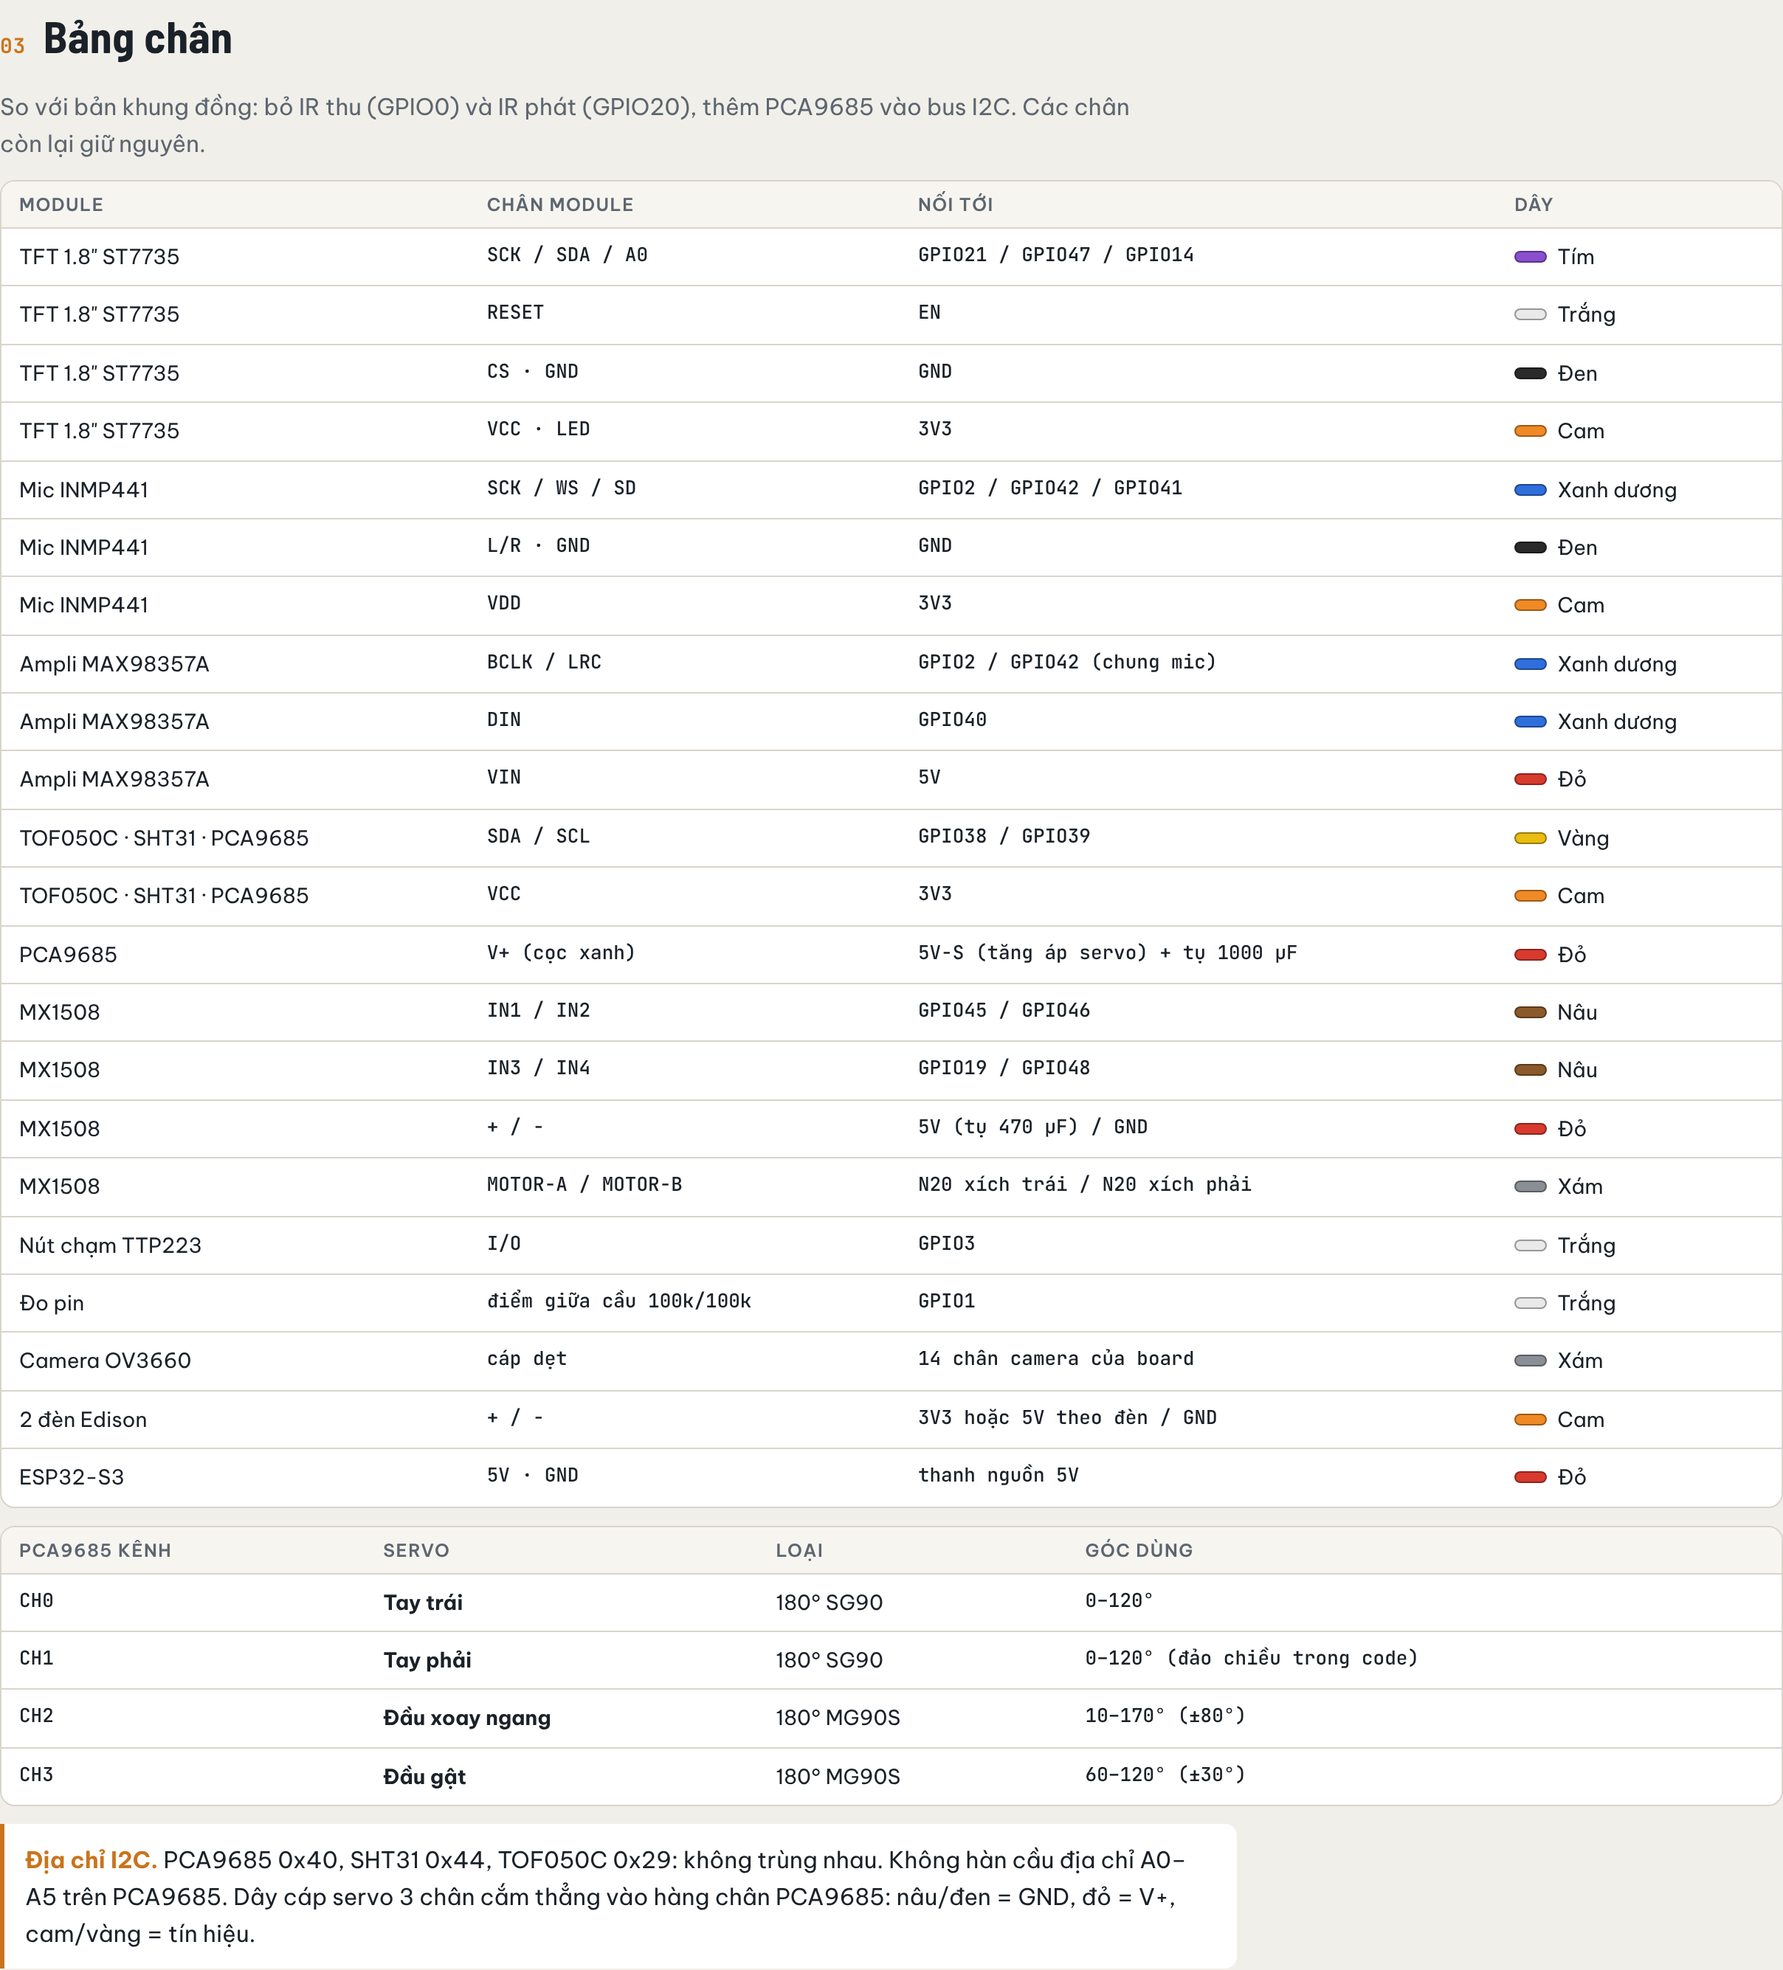
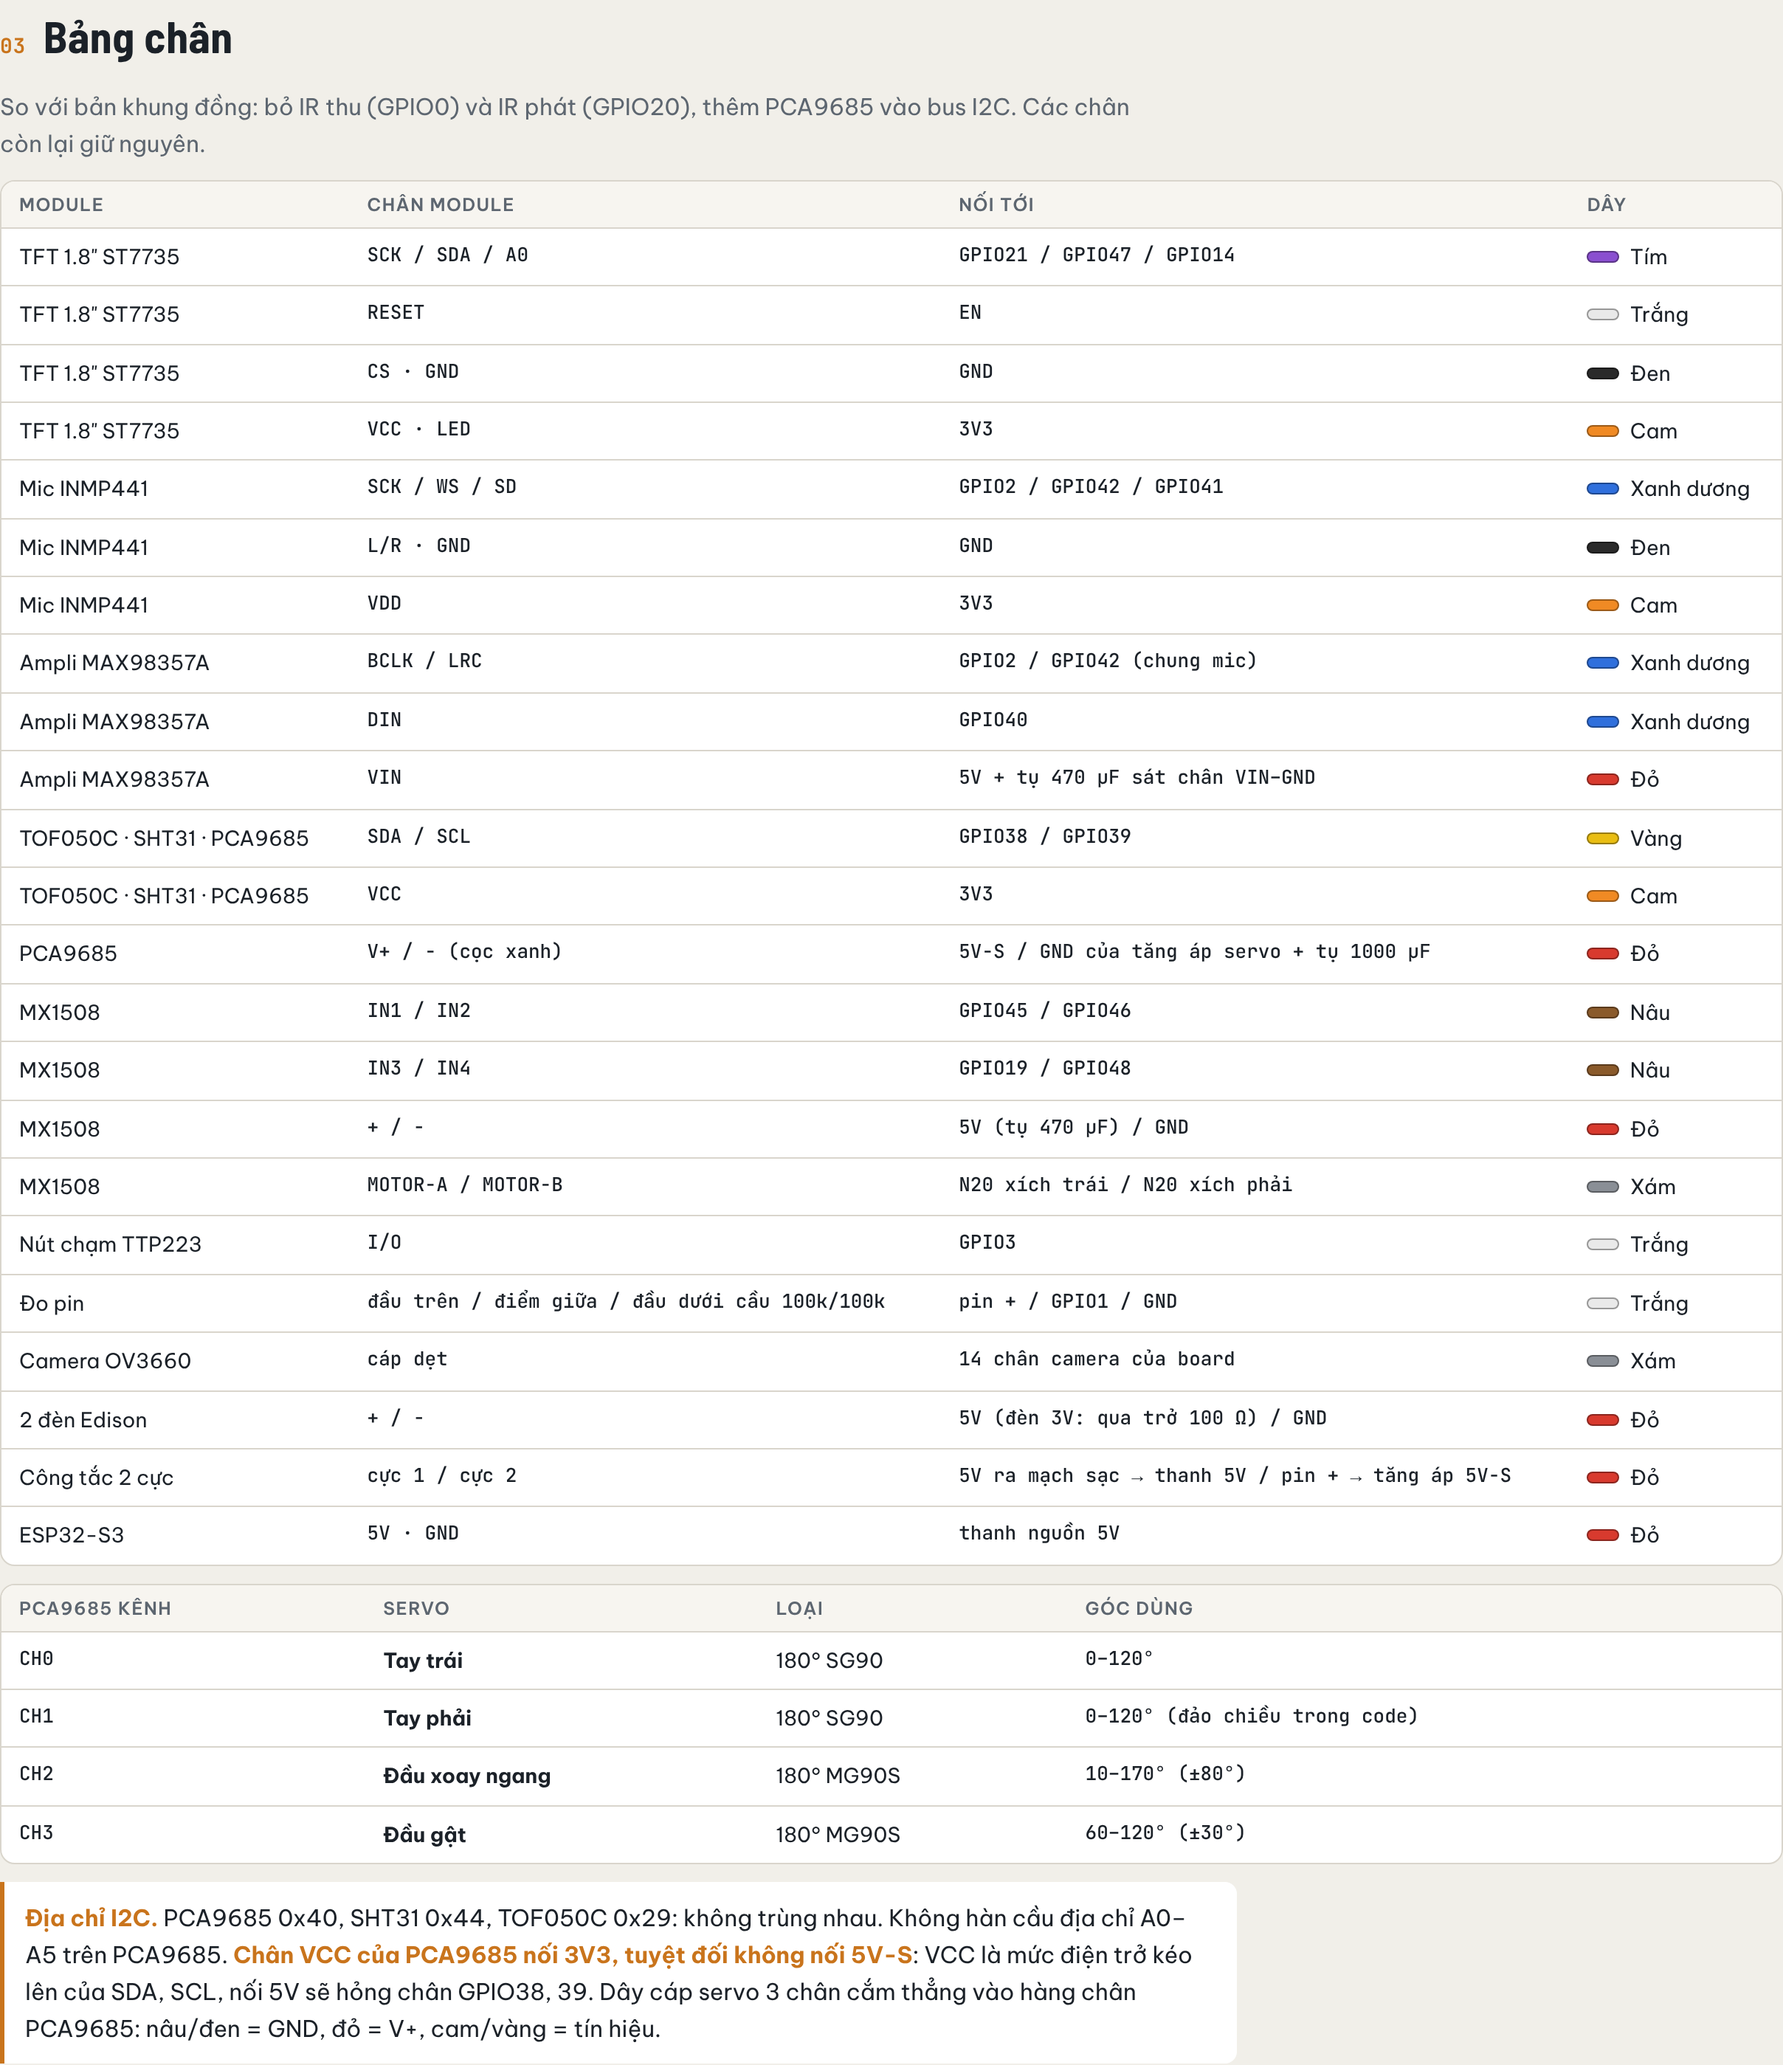
Soát sơ đồ Wall-E xích N20: thêm 2 đầu cầu chia đo pin, tụ ampli, cọc − PCA9685; công tắc và tăng áp đủ dòng; đèn Edison lấy 5V
Claude-Session: https://claude.ai/code/session_01LP61bmVpytbB66juJGd8Vg

diff --git a/design/walle-xich-n20/so-do-mach.html b/design/walle-xich-n20/so-do-mach.html
@@ -72,7 +72,9 @@ ol.steps b{font-family:var(--f-display);font-size:17px}
   <h2><span class="n">02</span>Nguồn</h2>
   <p class="lead">Giữ mạch sạc combo như cũ cho ESP32, ampli, MX1508. 4 servo lúc khởi động kéo tới 2–3 A, nên có mạch tăng áp 5V riêng lấy thẳng từ pin. Công tắc 2 cực tắt cả 2 nhánh cùng lúc.</p>
   <div class="fig"><svg id="figPower" viewBox="0 0 1180 360" width="1180" height="360" role="img" aria-label="Sơ đồ nguồn"></svg></div>
-  <div class="note warn"><b>Nhớ.</b> Chỉnh biến trở mạch tăng áp servo ra 5,1–5,3 V trước khi cắm servo. GND của mạch tăng áp nối chung GND của ESP32, không thì servo giật lung tung. Tụ 1000 µF sát cọc V+ của PCA9685, tụ 470 µF sát chân + của MX1508 (như bản cũ).</div>
+  <div class="note warn"><b>Nhớ.</b> Chỉnh biến trở mạch tăng áp servo ra 5,1–5,3 V trước khi cắm servo. GND của mạch tăng áp nối chung GND của ESP32, không thì servo giật lung tung. Tụ 1000 µF sát cọc V+ của PCA9685. 2 tụ 470 µF như bản cũ: 1 sát chân + − của MX1508, 1 sát chân VIN GND của ampli.</div>
+  <div class="note warn"><b>Nhánh servo chạy dòng lớn.</b> Lúc 4 servo cùng chạy, dây từ pin vào mạch tăng áp chịu tới 4–5 A. Công tắc phải là loại gạt 6 chân chịu từ 5 A trở lên, không dùng công tắc trượt nhỏ (chỉ chịu 0,5 A). Dây pin → công tắc → tăng áp → PCA9685 dùng 20AWG. Mạch tăng áp phải ghi rõ ra được 3 A khi ngõ vào là 1 cell 3,7 V. Mạch XL6009, MT3608 không đủ.</div>
+  <div class="note"><b>Đèn Edison lấy 5V, không lấy 3V3 của board.</b> Mạch ổn áp 3V3 trên board đã gánh ESP32, camera, WiFi, màn và các cảm biến. Đèn ghi 3V thì nối 5V qua 1 trở 100 Ω cho mỗi đèn. Đèn ghi 5V thì nối thẳng.</div>
 </section>
 
 <section id="chan">
@@ -86,7 +88,7 @@ ol.steps b{font-family:var(--f-display);font-size:17px}
     <thead><tr><th>PCA9685 kênh</th><th>Servo</th><th>Loại</th><th>Góc dùng</th></tr></thead>
     <tbody id="servoRows"></tbody>
   </table></div>
-  <div class="note"><b>Địa chỉ I2C.</b> PCA9685 0x40, SHT31 0x44, TOF050C 0x29: không trùng nhau. Không hàn cầu địa chỉ A0–A5 trên PCA9685. Dây cáp servo 3 chân cắm thẳng vào hàng chân PCA9685: nâu/đen = GND, đỏ = V+, cam/vàng = tín hiệu.</div>
+  <div class="note"><b>Địa chỉ I2C.</b> PCA9685 0x40, SHT31 0x44, TOF050C 0x29: không trùng nhau. Không hàn cầu địa chỉ A0–A5 trên PCA9685. <b>Chân VCC của PCA9685 nối 3V3, tuyệt đối không nối 5V-S</b>: VCC là mức điện trở kéo lên của SDA, SCL, nối 5V sẽ hỏng chân GPIO38, 39. Dây cáp servo 3 chân cắm thẳng vào hàng chân PCA9685: nâu/đen = GND, đỏ = V+, cam/vàng = tín hiệu.</div>
 </section>
 </div>
 
@@ -108,13 +110,13 @@ const MODS=[
  {side:'L',t:'TFT 1.8" ST7735 (ngực)',c:'#b8262b',pins:[['LED','3V3'],['SCK','J3:21','purple'],['SDA','J3:47','purple'],['A0','J1:14','purple'],['RESET','J1:RST','white'],['CS','GND'],['GND','GND'],['VCC','3V3']]},
  {side:'L',t:'Nút chạm TTP223 (nắp trên)',c:'#c42a2e',pins:[['I/O','J1:3','white'],['VCC','3V3'],['GND','GND']]},
  {side:'L',t:'Camera OV3660 (mắt trái)',c:'#141518',pins:[['FPC','khe camera trên board']]},
- {side:'L',t:'PCA9685 · ngõ ra servo (sàn)',c:'#0f6b5e',pins:[['V+','5V-S'],['GND','GND'],['CH0','tay trái · SG90'],['CH1','tay phải · SG90'],['CH2','đầu xoay · MG90S'],['CH3','đầu gật · MG90S']]},
- {side:'L',t:'2 đèn Edison (lưng)',c:'#7a5a1e',pins:[['+','3V3 hoặc 5V theo đèn'],['−','GND']]},
+ {side:'L',t:'PCA9685 · ngõ ra servo (sàn)',c:'#0f6b5e',pins:[['V+ (cọc xanh)','5V-S'],['− (cọc xanh)','GND'],['CH0','tay trái · SG90'],['CH1','tay phải · SG90'],['CH2','đầu xoay · MG90S'],['CH3','đầu gật · MG90S']]},
+ {side:'L',t:'2 đèn Edison (lưng)',c:'#7a5a1e',pins:[['+','5V (qua trở nếu đèn 3V)'],['−','GND']]},
  {side:'R',t:'Mic INMP441 (nắp trên)',c:'#141518',pins:[['SCK','J3:2','blue'],['WS','J3:42','blue'],['SD','J3:41','blue'],['L/R','GND'],['VDD','3V3'],['GND','GND']]},
- {side:'R',t:'Ampli MAX98357A (sau ngực)',c:'#4b2a8a',pins:[['BCLK','J3:2','blue'],['LRC','J3:42','blue'],['DIN','J3:40','blue'],['VIN','5V'],['GND','GND']]},
- {side:'R',t:'I2C: TOF050C · SHT31 · PCA9685',c:'#1d3f8a',pins:[['SDA','J3:38','yellow'],['SCL','J3:39','green'],['VCC','3V3'],['GND','GND']]},
+ {side:'R',t:'Ampli MAX98357A (sau ngực)',c:'#4b2a8a',pins:[['BCLK','J3:2','blue'],['LRC','J3:42','blue'],['DIN','J3:40','blue'],['VIN (tụ 470µF)','5V'],['GND','GND']]},
+ {side:'R',t:'I2C: TOF050C · SHT31 · PCA9685',c:'#1d3f8a',pins:[['SDA','J3:38','yellow'],['SCL','J3:39','green'],['VCC (cả 3 module)','3V3'],['GND','GND']]},
  {side:'R',t:'MX1508 · 2 motor N20 (sàn dưới)',c:'#8a5a2b',pins:[['IN1','J3:45','brown'],['IN2','J1:46','brown'],['IN3','J3:19','brown'],['IN4','J3:48','brown'],['+ (tụ 470µF)','5V'],['−','GND'],['MOTOR-A','N20 xích trái'],['MOTOR-B','N20 xích phải']]},
- {side:'R',t:'Đo pin (cầu chia 100k/100k)',c:'#c8a066',pins:[['điểm giữa','J3:1','white']]},
+ {side:'R',t:'Đo pin (cầu chia 100k/100k)',c:'#c8a066',pins:[['đầu trên','pin +'],['điểm giữa','J3:1','white'],['đầu dưới','GND']]},
 ];
 (function(){
   const s=document.getElementById('figWire');
@@ -132,7 +134,7 @@ const MODS=[
   T(s,EX0-4,top-50,'J1',{fs:12,fw:700,mono:true,a:'middle'}); T(s,EX1+4,top-50,'J3',{fs:12,fw:700,mono:true,a:'middle'});
   T(s,(EX0+EX1)/2,top+espH+16,'chữ xanh nhạt = chân camera, không dùng',{fs:11,a:'middle',fill:'var(--muted)'});
   T(s,(EX0+EX1)/2,top+espH+33,'GPIO0, GPIO20 = trống (đã bỏ IR)',{fs:11,a:'middle',fill:'var(--muted)'});
-  const badge=(x,y,txt,right)=>{ const col={'3V3':'#f08a24','5V':'#d83a2e','5V-S':'#a3166b','GND':'#2a2a2a'}[txt]; const w=Math.max(38,txt.length*6.6+14);
+  const badge=(x,y,txt,right)=>{ const col={'3V3':'#f08a24','5V':'#d83a2e','5V-S':'#a3166b','GND':'#2a2a2a','pin +':'#6b4a1a'}[txt]; const w=Math.max(38,txt.length*6.6+14);
     const bx=right?x+10:x-10-w; R(s,bx,y-9,w,18,{fill:col||'var(--surface-2)',stroke:col||'var(--cardline)',rx:9,sw:1}); T(s,bx+w/2,y,txt,{fs:10.5,fw:700,a:'middle',mono:!!col,fill:col?'#fff':'var(--ink)'}); };
   const wires=[];
   let yL=top-50, yR=top-50;
@@ -164,22 +166,23 @@ const MODS=[
   const L=(x,y,t,o={})=>T(s,x,y,t,Object.assign({fs:10.5,fill:'var(--muted)'},o));
   B(20,135,150,70,'2 × 18650','song song · 3,7 V');
   B(230,40,170,70,'Mạch sạc combo','sạc USB-C · ra 5V');
-  B(230,230,170,70,'Công tắc 2 cực','DPDT 6 chân');
+  B(230,230,170,70,'Công tắc 2 cực','gạt DPDT 6 chân · ≥ 5 A');
   B(480,40,180,70,'Thanh nguồn 5V','sau công tắc');
-  B(480,230,180,70,'Tăng áp 5V-S','≥ 3 A · chỉnh 5,2 V','var(--accent-soft)');
-  B(740,10,190,50,'ESP32 (chân 5V)','3V3 → TFT, mic, I2C, chạm');
-  B(740,70,190,40,'Ampli MAX98357A','');
-  B(740,120,190,50,'MX1508 + tụ 470 µF','→ 2 motor N20');
+  B(480,230,180,70,'Tăng áp 5V-S','3 A khi vào 3,7 V','var(--accent-soft)');
+  B(740,4,190,46,'ESP32 (chân 5V)','3V3 → TFT, mic, I2C, chạm');
+  B(740,58,190,36,'Ampli + tụ 470 µF','');
+  B(740,102,190,46,'MX1508 + tụ 470 µF','→ 2 motor N20');
+  B(740,156,190,46,'2 đèn Edison','đèn 3V: thêm trở 100 Ω');
+  B(20,262,150,50,'Cầu chia 100k/100k','điểm giữa → GPIO1');
   B(740,230,190,70,'PCA9685 V+','+ tụ 1000 µF','var(--accent-soft)');
   B(1000,230,160,70,'4 servo','2 tay · đầu xoay · gật');
-  B(1000,10,160,50,'2 đèn Edison','hoặc 5V, theo đèn');
   A('M170 155 C200 155,200 75,228 75'); L(196,100,'B+ B−',{a:'end'});
-  A('M170 185 C200 185,200 280,228 280'); L(200,300,'pin + vào cực 2',{a:'end'});
+  A('M170 185 C200 185,200 280,228 280'); L(232,318,'pin + vào cực 2');
   A('M400 75 C440 75,440 175,320 175 C300 175,300 205,300 228'); L(384,194,'5V vào cực 1',{a:'middle'}); L(452,150,'cực 1 ra'); L(408,300,'cực 2 ra');
   A('M400 250 C440 250,440 75,478 75'); A('M400 280 L478 265');
-  A('M660 60 L738 35'); A('M660 75 L738 90'); A('M660 90 L738 140');
+  A('M660 55 L738 27'); A('M660 70 L738 76'); A('M660 85 L738 125'); A('M660 100 L738 179');
+  A('M95 205 L95 260'); L(102,232,'pin +');
   A('M660 265 L738 265'); A('M930 265 L998 265');
-  A('M930 35 L998 35'); L(964,24,'3V3',{a:'middle'});
   T(s,590,340,'Mọi GND nối chung một điểm trên thanh nguồn · Nạp code bằng máy tính thì để công tắc TẮT',{fs:12,fw:700,a:'middle',fill:'var(--warn)'});
 })();
 
@@ -187,12 +190,12 @@ const MODS=[
 const PINS=[
  ['TFT 1.8" ST7735','SCK / SDA / A0','GPIO21 / GPIO47 / GPIO14','purple'],['TFT 1.8" ST7735','RESET','EN','white'],['TFT 1.8" ST7735','CS · GND','GND','black'],['TFT 1.8" ST7735','VCC · LED','3V3','orange'],
  ['Mic INMP441','SCK / WS / SD','GPIO2 / GPIO42 / GPIO41','blue'],['Mic INMP441','L/R · GND','GND','black'],['Mic INMP441','VDD','3V3','orange'],
- ['Ampli MAX98357A','BCLK / LRC','GPIO2 / GPIO42 (chung mic)','blue'],['Ampli MAX98357A','DIN','GPIO40','blue'],['Ampli MAX98357A','VIN','5V','red'],
- ['TOF050C · SHT31 · PCA9685','SDA / SCL','GPIO38 / GPIO39','yellow'],['TOF050C · SHT31 · PCA9685','VCC','3V3','orange'],['PCA9685','V+ (cọc xanh)','5V-S (tăng áp servo) + tụ 1000 µF','red'],
+ ['Ampli MAX98357A','BCLK / LRC','GPIO2 / GPIO42 (chung mic)','blue'],['Ampli MAX98357A','DIN','GPIO40','blue'],['Ampli MAX98357A','VIN','5V + tụ 470 µF sát chân VIN–GND','red'],
+ ['TOF050C · SHT31 · PCA9685','SDA / SCL','GPIO38 / GPIO39','yellow'],['TOF050C · SHT31 · PCA9685','VCC','3V3','orange'],['PCA9685','V+ / − (cọc xanh)','5V-S / GND của tăng áp servo + tụ 1000 µF','red'],
  ['MX1508','IN1 / IN2','GPIO45 / GPIO46','brown'],['MX1508','IN3 / IN4','GPIO19 / GPIO48','brown'],['MX1508','+ / −','5V (tụ 470 µF) / GND','red'],['MX1508','MOTOR-A / MOTOR-B','N20 xích trái / N20 xích phải','grey'],
  ['Nút chạm TTP223','I/O','GPIO3','white'],
- ['Đo pin','điểm giữa cầu 100k/100k','GPIO1','white'],['Camera OV3660','cáp dẹt','14 chân camera của board','grey'],
- ['2 đèn Edison','+ / −','3V3 hoặc 5V theo đèn / GND','orange'],['ESP32-S3','5V · GND','thanh nguồn 5V','red'],
+ ['Đo pin','đầu trên / điểm giữa / đầu dưới cầu 100k/100k','pin + / GPIO1 / GND','white'],['Camera OV3660','cáp dẹt','14 chân camera của board','grey'],
+ ['2 đèn Edison','+ / −','5V (đèn 3V: qua trở 100 Ω) / GND','red'],['Công tắc 2 cực','cực 1 / cực 2','5V ra mạch sạc → thanh 5V / pin + → tăng áp 5V-S','red'],['ESP32-S3','5V · GND','thanh nguồn 5V','red'],
 ];
 document.getElementById('pinRows').innerHTML=PINS.map(r=>`<tr><td>${r[0]}</td><td class="m">${r[1]}</td><td class="m">${r[2]}</td><td><span class="sw" style="background:${WC[r[3]]}"></span>${CN[r[3]]}</td></tr>`).join('');
 const SERVOS=[['CH0','Tay trái','180° SG90','0–120°'],['CH1','Tay phải','180° SG90','0–120° (đảo chiều trong code)'],['CH2','Đầu xoay ngang','180° MG90S','10–170° (±80°)'],['CH3','Đầu gật','180° MG90S','60–120° (±30°)']];
